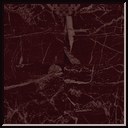
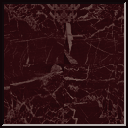
feat(visual): every panel is a cabinet, a decree is read off stone — and the probe that judges this had stopped looking
D8-1. One line puts the whole game in a cabinet: PanelContainer's theme stylebox is
the wood material, so every panel on every screen arrives at once. That is D0's
centralising paying off more than D0 did. The four dialogs (settings, credits, new
run, bug report) wear the same wood with a gold rim, because a thing on top of the
game says so with one gold line; a LOCKED character stays flat, since a cabinet you
cannot open is not a cabinet.

A DECREE IS READ OFF STONE. The divine rule band is jasper now, not a panel: it is
the one band in a fight read ONCE, on entering the room, and never again while the
fight runs — which is what a plaque is, and what separates it from the telegraph
under it that changes every turn. The arena's own instruments (columns, telegraph
rail, chips, toast) keep D6's look and stay quiet, because from D8-3 they stand over
a picture.

THE BORDER IS 8 AND NOT 16, BECAUSE OF THE ARENA. A stylebox's content margin must
clear its texture margin or the text sits on the carving; today's panels pad 12 and
8. A 16 px carving would have forced 20 px into every PanelContainer in the game, and
D6 spent a whole pass winning back 145 px of arena height. A material may not cost
layout. Measured: smoke-format 5/5 PASS at 134x190, smoke-crowd offscreen=no with the
arena at 894/353, tooltips 0 unexplained.

A SUB-CROP OF A SEAMLESS TILE IS NOT A SEAMLESS TILE. A nine-patch repeats its
[…]

diff --git a/scripts/SessionScreen.cs b/scripts/SessionScreen.cs
@@ -640,7 +640,12 @@ public partial class SessionScreen : Control
             && (wanted.Length == 0 || Enemies().Any(e =>
                 e.DefinitionId.value.Contains(wanted, StringComparison.OrdinalIgnoreCase)));
 
-        await WalkUntil(stop: Found, prefer: node => node.HasTag(MapNodeTags.Boss), budget: 9000);
+        // ⚠⚠ A BUDGET IS A MEASUREMENT OF A MAP, AND THE MAP WAS REBUILT UNDER IT. 9000 steps carried this
+        // probe to an Act V god when D6 measured it; after the map rework (S1-S15) the same 9000 stop in Act
+        // IV — the acts are longer now (Act IV alone lays out 36 rows, `--smoke-generators`) — and a walk that
+        // runs out prints `boss=NO ... error=none`, a sentence that reads like nothing is wrong. The eyes-on
+        // probe the whole visual arc is judged by had quietly stopped looking at the thing it is for.
+        await WalkUntil(stop: Found, prefer: node => node.HasTag(MapNodeTags.Boss), budget: 25000);
 
         // A NAMED boss may not be in this run at all: Act V fields THREE OF SIX gods, in an order the seed
         // picks, so asking for one god and walking one run is asking for a one-in-two chance. The crowd probe
@@ -651,7 +656,7 @@ public partial class SessionScreen : Control
             foreach (var seed in new[] { 5, 7, 1, 2, 3, 4, 6, 8, 9, 11 })
             {
                 GameHost.Instance.StartNewRun(seed, health: 9999);
-                await WalkUntil(stop: Found, prefer: node => node.HasTag(MapNodeTags.Boss), budget: 9000);
+                await WalkUntil(stop: Found, prefer: node => node.HasTag(MapNodeTags.Boss), budget: 25000);
                 if (Found())
                 {
                     GD.Print($"  '{wanted}' found on seed {seed}");
@@ -889,6 +894,8 @@ public partial class SessionScreen : Control
         Func<bool> stop, Func<RogueDeck.Run.Node, bool> prefer, int budget)
     {
         _walkEnded = "the budget ran out";
+        var enteredRoomAt = 0;
+        string? lastFight = null;
         var session = Session;
         var play = Play;
         var best = 0;
@@ -919,12 +926,34 @@ public partial class SessionScreen : Control
             if (step % 20 == 19)
                 await ToSignal(GetTree(), SceneTree.SignalName.ProcessFrame);
             best = Math.Max(best, Enemies().Count);
+            // Who was on the table last. A run that ends names the fight it ended in — without this, a defeat
+            // reports a room code and leaves the next reader to walk there again to find out who was standing
+            // in it.
+            if (play.CombatDriver?.Current is not null && Facing() is { Length: > 0 } facing && facing != "-")
+                lastFight = facing;
             if (session.Run.CurrentNodeId?.Value is { } here && here != lastRoom)
             {
                 lastRoom = here;
+                enteredRoomAt = step;
                 var node = session.Run.Map.Nodes.FirstOrDefault(n => n.Id.Value == here);
                 GD.Print($"  [{step,5}] act {session.Run.ActNumber} {here} "
                     + $"{(node is null ? "?" : MapView.Role(node))}");
+            }
+
+            // ⚠⚠ "THE BUDGET RAN OUT" IS NOT A DIAGNOSIS, IT IS A CLOCK. This probe answered twenty-two
+            // thousand questions inside ONE room of Act IV and then reported the budget, which reads like a
+            // walk that was merely too long and is in fact a walk that was going nowhere. A room that will
+            // not end is a different animal from a map that is big, and the only way to tell them apart
+            // afterwards is to name the state the answers were being poured into.
+            if (step % 500 == 499)
+                GD.Print($"  [{step,5}] heartbeat: act {session.Run.ActNumber} node {session.Run.CurrentNodeId?.Value ?? "-"} "
+                    + $"(entered at {enteredRoomAt}, last {lastRoom ?? "-"}) awaiting {Awaiting(session, play)}");
+
+            if (step - enteredRoomAt > StepsNoRoomTakes)
+            {
+                _walkEnded = $"stuck in {lastRoom} for {StepsNoRoomTakes} steps, awaiting {Awaiting(session, play)}";
+                GD.Print($"  [{step,5}] STUCK — {_walkEnded}");
+                break;
             }
 
             if (play.CombatDriver is { Current: not null } driver)
@@ -1017,10 +1046,40 @@ public partial class SessionScreen : Control
                 break;
             }
         }
+        // ⚠⚠ A CLOCK IS NOT A DIAGNOSIS, AND THE LOOP HAS FOUR WAYS OUT. Three of them used to leave the
+        // opening line in place — "the budget ran out" — which is why this probe spent four runs looking like
+        // a walk that was merely too slow. A run that ENDED is the loudest of them and said nothing at all.
+        if (session?.IsComplete == true)
+            _walkEnded = $"the run ended: {session.Run.Result}"
+                + $" (hero at {session.Run.Health.Current}/{session.Run.Health.Max}"
+                + $", in {lastRoom ?? "-"} against {lastFight ?? "nobody"})";
+        else if (session is null || play is null)
+            _walkEnded = "the session went away under the walk";
         if (session?.Error is not null || play?.Error is not null)
             _walkEnded = "an error was raised";
         return best;
     }
+
+    // No room in this game takes a thousand answers. A fight is bounded by the turn ceiling above it, and a
+    // screen between rooms is answered in one.
+    private const int StepsNoRoomTakes = 1000;
+
+    // The name of whatever is holding the walk, in the same words the walk's own branches are written in —
+    // so a stuck report says which branch was firing instead of leaving the next reader to re-derive it.
+    private static string Awaiting(InteractiveRunSession session, RunPlayback play) =>
+        play.CombatDriver switch
+        {
+            { PendingOptionChoice: not null } => "an option choice in a fight",
+            { PendingCardChoice: not null } => "a card choice in a fight",
+            { Current: { IsHeroTurn: true } } => "the hero's turn in a fight",
+            { Current: not null } => "the enemy's turn in a fight",
+            _ => session.IsAwaitingNodeChoice ? "a node choice"
+                : session.IsAwaitingEntities ? $"an entity pick ({session.PendingEntities?.Displays.Count} offered, "
+                    + $"{session.PendingEntities?.Count} to take)"
+                : session.IsAwaitingChoice ? $"a room choice ({session.PendingChoices.Count} options)"
+                : session.IsAwaitingInterlude ? "an interlude"
+                : "nothing at all",
+        };
 
     // Walk toward the nearest room of one KIND and screenshot it as the player would meet it. The rooms that
     // are not fights — shop, campfire, a door — are the ones nothing else in the smoke suite ever looks at.
@@ -2232,9 +2291,7 @@ public partial class SessionScreen : Control
             CustomMinimumSize = new Vector2(0, 0),
             TooltipText = Glossary.Explain(null, $"{name} {description}"),
         };
-        panel.AddThemeStyleboxOverride("panel", MoonvineTheme.Panel(
-            selected ? MoonvineTheme.BgControl : MoonvineTheme.BgPanel,
-            selected ? MoonvineTheme.AccentLight : new Color(MoonvineTheme.Accent, 0.3f)));
+        panel.AddThemeStyleboxOverride("panel", MoonvineTheme.WoodPanel(rim: selected));
 
         var column = new VBoxContainer { SizeFlagsHorizontal = SizeFlags.ExpandFill };
         column.AddThemeConstantOverride("separation", 2);
@@ -3998,8 +4055,10 @@ public partial class SessionScreen : Control
         // so the heading is hovered as whatever is beneath it — this panel — and a player who reaches for the
         // title of the area gets the same sentence rather than nothing at all.
         var panel = new PanelContainer { TooltipText = $"{title} — {rule}" };
-        panel.AddThemeStyleboxOverride("panel",
-            MoonvineTheme.Panel(MoonvineTheme.BgPanelStrong, MoonvineTheme.AccentLight, 8));
+        // ★ A DECREE IS READ OFF STONE. This is the one band in a fight that is read ONCE, on entering the
+        // room, and never changes while the fight runs — which is exactly what a plaque is for, and what
+        // separates it from the telegraph under it that changes every turn.
+        panel.AddThemeStyleboxOverride("panel", MoonvineTheme.JasperField(padH: 14, padV: 10));
         var pad = new MarginContainer();
         foreach (var side in new[] { "margin_left", "margin_right", "margin_top", "margin_bottom" })
             pad.AddThemeConstantOverride(side, 10);

diff --git a/tools/make-materials.py b/tools/make-materials.py
@@ -199,42 +199,59 @@ def dentils(draw, box, step, depth, light, dark):
     _ = depth
 
 
-def panel_wood(size=128, border=16):
-    """The everyday panel: a wood ground in a carved edge. Nine-patch margins = `border`."""
-    ground = tile("wood", size * 2).resize((size, size), Image.LANCZOS)
-    image = ground.convert("RGBA")
-    draw = ImageDraw.Draw(image)
-    edge = (0x0a, 0x06, 0x04, 255)
-    lift = (0x4a, 0x33, 0x1c, 255)
-    sink = (0x12, 0x0b, 0x06, 255)
-    draw.rectangle([0, 0, size - 1, size - 1], outline=edge, width=2)
-    bevel(draw, (2, 2, size - 3, size - 3), lift, sink, width=2)
-    bevel(draw, (border - 4, border - 4, size - border + 3, size - border + 3), sink, lift, width=1)
-    draw.rectangle([border - 2, border - 2, size - border + 1, size - border + 1],
-                   outline=(*GOLD_DARK, 110), width=1)
+def nine_patch_ground(kind, size, border, sigma=PANEL_SIGMA):
+    """A nine-patch ground whose CENTRE is seamless at centre size.
+
+    ⚠⚠ A SUB-CROP OF A SEAMLESS TILE IS NOT A SEAMLESS TILE. A nine-patch repeats its centre region, and the
+    centre of a 128 px piece with a 16 px border is 96 px — cut out of the middle of a seamless 512, whose
+    edges match each OTHER and not the edges of that crop. Every panel in the game would have carried a grid
+    of hairline discontinuities, visible exactly where a panel is big, which is where panels matter. So the
+    centre is GENERATED at centre size, where `seamless` makes it match itself, and the border ring is drawn
+    over a separate full-size pass of the same material.
+    """
+    image = tile(kind, size, sigma).convert("RGBA")
+    inner = size - 2 * border
+    image.paste(tile(kind, inner, sigma).convert("RGBA"), (border, border))
     return image
 
 
-def frame_lintel(size=256, border=48):
-    """The act header: black marble surround, dentil course, a gold bead, and a jasper field inside it."""
-    image = tile("marble", size * 2).resize((size, size), Image.LANCZOS).convert("RGBA")
-    field = tile("jasper", size, sigma=FIELD_SIGMA).resize((size, size), Image.LANCZOS)
-    inner = (border, border, size - border, size - border)
-    image.paste(field.crop(inner), (border, border))
+def panel_wood(size=96, border=8, rim=False):
+    """The everyday panel: a wood ground in a carved edge. Nine-patch margins = `border`.
+
+    ⚠ THE BORDER IS 8 AND NOT 16 BECAUSE OF THE ARENA. A stylebox's content margin has to clear its texture
+    margin or the text sits on the carving, and today's panels pad 12 across and 8 down (`Panel`). A 16 px
+    carving would have forced 20 px of padding into every PanelContainer in the game — and D6 spent a whole
+    pass winning back 145 px of arena height. A material may not cost layout.
+
+    `rim` adds the gold hairline an overlay wants: a dialog on top of the game says so with one gold line,
+    which is what the accent has meant since D0.
+    """
+    image = nine_patch_ground("wood", size, border)
     draw = ImageDraw.Draw(image)
-    edge = (0x05, 0x04, 0x05, 255)
-    lift = (0x93, 0x88, 0x8c, 200)
-    sink = (0x07, 0x05, 0x07, 255)
-    draw.rectangle([0, 0, size - 1, size - 1], outline=edge, width=2)
-    bevel(draw, (2, 2, size - 3, size - 3), lift, sink, width=2)
-    dentils(draw, (10, 10, size - 11, 22), 10, 12, (*GOLD_LIGHT, 150), (*GOLD_DARK, 190))
-    bevel(draw, (28, 28, size - 29, size - 29), (*GOLD, 220), (*GOLD_DARK, 220), width=2)
-    draw.rectangle([border - 1, border - 1, size - border, size - border], outline=(*GOLD_DARK, 200), width=1)
+    edge = (0x08, 0x05, 0x03, 255)
+    lift = (0x3c, 0x28, 0x14, 255)
+    sink = (0x0e, 0x08, 0x04, 255)
+    draw.rectangle([0, 0, size - 1, size - 1], outline=edge, width=1)
+    bevel(draw, (1, 1, size - 2, size - 2), lift, sink, width=1)
+    bevel(draw, (border - 3, border - 3, size - border + 2, size - border + 2), sink, lift, width=1)
+    draw.rectangle([border - 1, border - 1, size - border, size - border],
+                   outline=(*GOLD_DARK, 90), width=1)
+    if rim:
+        draw.rectangle([0, 0, size - 1, size - 1], outline=(*GOLD, 200), width=1)
     return image
 
 
 def frame_stone(size=128, border=14):
-    """A marble edge around nothing: the centre is transparent, so a plate keeps whatever ground it had."""
+    """A marble edge around nothing: the centre is transparent, so a plate keeps whatever ground it had.
+
+    ⚠ THERE IS NO PICTURE OF A LINTEL HERE, AND THAT IS DELIBERATE. The first pass drew one — surround,
+    tooth course, bead and field, all in a single 256 px nine-patch — and it was the best-looking thing on
+    the contact sheet. It is still wrong: a nine-patch REPEATS its edge strips, so the tooth course only
+    survives at widths that happen to be whole multiples of its step, and it smears at every other width.
+    The portal in the photographs is not one carved slab either; it is a surround, a field and a course laid
+    on top of each other. So the lintel is ASSEMBLED at runtime out of frame-stone, field-jasper and
+    moulding-gold, and no ornament is ever stretched.
+    """
     image = tile("marble", size * 2).resize((size, size), Image.LANCZOS).convert("RGBA")
     draw = ImageDraw.Draw(image)
     draw.rectangle([0, 0, size - 1, size - 1], outline=(0x05, 0x04, 0x05, 255), width=2)
@@ -247,7 +264,7 @@ def frame_stone(size=128, border=14):
 
 def field_jasper(size=128, border=10):
     """A small plaque: jasper with a dark stone lip, for anything a word is written on."""
-    image = tile("jasper", size * 2, sigma=FIELD_SIGMA).resize((size, size), Image.LANCZOS).convert("RGBA")
+    image = nine_patch_ground("jasper", size, border, sigma=FIELD_SIGMA)
     draw = ImageDraw.Draw(image)
     draw.rectangle([0, 0, size - 1, size - 1], outline=(0x10, 0x06, 0x08, 255), width=2)
     bevel(draw, (2, 2, size - 3, size - 3), (0x12, 0x0a, 0x0c, 255), (0x6a, 0x5a, 0x52, 120), width=2)
@@ -295,7 +312,7 @@ PIECES = {
     "marble.png": lambda: tile("marble"),
     "jasper.png": lambda: tile("jasper", sigma=FIELD_SIGMA),
     "panel-wood.png": panel_wood,
-    "frame-lintel.png": frame_lintel,
+    "panel-wood-rim.png": lambda: panel_wood(rim=True),
     "frame-stone.png": frame_stone,
     "field-jasper.png": field_jasper,
     "moulding-gold.png": moulding_gold,

diff --git a/scripts/MoonvineTheme.cs b/scripts/MoonvineTheme.cs
@@ -1,3 +1,4 @@
+using System.Collections.Generic;
 using Godot;
 
 namespace BnbGodot;
@@ -167,6 +168,66 @@ public static class MoonvineTheme
         ContentMarginBottom = 8,
     };
 
+    // ── the materials (D8) ───────────────────────────────────────────────────────
+    // A surface has a MATERIAL now, not a fill. Four of them, chosen by the ROLE of a surface and never by
+    // taste, the same discipline as the six-step ramp: WOOD is the cabinet the game is kept in (every panel
+    // and every dialog), MARBLE is a frame, JASPER is a field with writing on it, and GOLD stays a COLOUR —
+    // if gold ever becomes a surface, nothing on the screen is an accent any more.
+    //
+    // ⚠ A MATERIAL IS FELT, NOT SEEN. The tiles are generated at a fixed contrast (sigma 7 of 255 for a
+    // panel, 14 for a small plaque) by `tools/make-materials.py`, because a surface carrying text may not
+    // compete with it. The file is a placeholder like every picture in this game: save a painted one over it.
+    //
+    // ⚠ A MISSING MATERIAL IS A NORMAL STATE. `Surface` falls back to the flat panel it replaced, so a build
+    // without the files looks like D0 and never like an error.
+    private static readonly Dictionary<string, Texture2D?> Materials = new();
+
+    public static Texture2D? Material(string name)
+    {
+        if (!Materials.TryGetValue(name, out var texture))
+            Materials[name] = texture = ResourceLoader.Exists($"res://assets/materials/{name}.png")
+                ? GD.Load<Texture2D>($"res://assets/materials/{name}.png")
+                : null;
+        return texture;
+    }
+
+    // A nine-patch surface. `texture` is how wide the carved edge is in the FILE; `padH`/`padV` are what the
+    // content inside is held off by, and they must clear the carving or the text sits on it.
+    public static StyleBox Surface(string name, int texture, int padH, int padV, Color? fallback = null)
+    {
+        if (Material(name) is not { } picture)
+            return Panel(fallback);
+        var box = new StyleBoxTexture
+        {
+            Texture = picture,
+            // ⚠ TILE, NOT STRETCH. A stretched grain smears into stripes on a tall panel; the generator makes
+            // the centre of each piece seamless AT CENTRE SIZE so that tiling it has nothing to show.
+            AxisStretchHorizontal = StyleBoxTexture.AxisStretchMode.Tile,
+            AxisStretchVertical = StyleBoxTexture.AxisStretchMode.Tile,
+            TextureMarginLeft = texture,
+            TextureMarginRight = texture,
+            TextureMarginTop = texture,
+            TextureMarginBottom = texture,
+            ContentMarginLeft = padH,
+            ContentMarginRight = padH,
+            ContentMarginTop = padV,
+            ContentMarginBottom = padV,
+        };
+        return box;
+    }
+
+    // The everyday panel, in the padding `Panel` has always used — a material may not cost layout.
+    public static StyleBox WoodPanel(bool rim = false) =>
+        Surface(rim ? "panel-wood-rim" : "panel-wood", 8, 12, 8, rim ? BgPanelStrong : BgPanel);
+
+    // A marble edge around whatever the caller already had: the centre of the picture is transparent.
+    public static StyleBox StoneFrame(int padH = 16, int padV = 12) =>
+        Surface("frame-stone", 14, padH, padV, BgRaised);
+
+    // A plaque with a word on it: oxblood stone with a dark lip.
+    public static StyleBox JasperField(int padH = 12, int padV = 8) =>
+        Surface("field-jasper", 10, padH, padV, CardGround);
+
     private static Theme? _theme;
 
     public static Theme Build()
@@ -178,8 +239,11 @@ public static class MoonvineTheme
         if (Font is { } font)
             theme.DefaultFont = font;
 
-        theme.SetStylebox("panel", "PanelContainer", Panel());
-        theme.SetStylebox("panel", "Panel", Panel(BgPanelStrong));
+        // ★ ONE LINE PUTS THE WHOLE GAME IN A CABINET. Every PanelContainer in every screen reads this, which
+        // is why D0's work of centralising was worth more than D0 itself: the material arrives everywhere at
+        // once, and the places that should NOT wear it are the ones that already override their own stylebox.
+        theme.SetStylebox("panel", "PanelContainer", WoodPanel());
+        theme.SetStylebox("panel", "Panel", WoodPanel());
 
         // A button is the one thing on screen that is unambiguously yours to press, so it is the one thing
         // that wears gold at rest.

diff --git a/scripts/Boot.cs b/scripts/Boot.cs
@@ -599,9 +599,9 @@ public partial class Boot : Control
         // "Armed with forms, stamps, and a fireproof sense of procedure" comes out six lines tall and pushes the
         // roster off the bottom of the screen.
         var panel = new PanelContainer { CustomMinimumSize = new Vector2(330, 140) };
-        panel.AddThemeStyleboxOverride("panel", MoonvineTheme.Panel(
-            selected ? MoonvineTheme.BgControl : MoonvineTheme.BgPanel,
-            selected ? MoonvineTheme.AccentLight : unlocked ? new Color(MoonvineTheme.Accent, 0.3f) : new Color(MoonvineTheme.TextMuted, 0.2f)));
+        panel.AddThemeStyleboxOverride("panel", unlocked
+            ? MoonvineTheme.WoodPanel(rim: selected)
+            : MoonvineTheme.Panel(MoonvineTheme.BgPanelStrong, new Color(MoonvineTheme.TextMuted, 0.2f)));
 
         // WHO YOU ARE ABOUT TO BE, as a body and not only as a name. The roster is the first choice the game
         // asks of anybody, and it was the last one still made entirely out of words.

diff --git a/scripts/CreditsPanel.cs b/scripts/CreditsPanel.cs
@@ -72,7 +72,7 @@ public partial class CreditsPanel : PanelContainer
         // At 460 the list showed three of ten entries and looked like an accident; the point of a credits
         // screen is that the credits are ON it, not one scroll-flick away.
         CustomMinimumSize = new Vector2(620, 600);
-        AddThemeStyleboxOverride("panel", MoonvineTheme.Panel(MoonvineTheme.BgPanelStrong, MoonvineTheme.Accent));
+        AddThemeStyleboxOverride("panel", MoonvineTheme.WoodPanel(rim: true));
 
         var margin = new MarginContainer();
         foreach (var side in new[] { "margin_left", "margin_right", "margin_top", "margin_bottom" })

diff --git a/scripts/BugReportPanel.cs b/scripts/BugReportPanel.cs
@@ -28,7 +28,7 @@ public partial class BugReportPanel : PanelContainer
     public override void _Ready()
     {
         CustomMinimumSize = new Vector2(620, 0);
-        AddThemeStyleboxOverride("panel", MoonvineTheme.Panel(MoonvineTheme.BgPanelStrong, MoonvineTheme.Accent));
+        AddThemeStyleboxOverride("panel", MoonvineTheme.WoodPanel(rim: true));
 
         var margin = new MarginContainer();
         foreach (var side in new[] { "margin_left", "margin_right", "margin_top", "margin_bottom" })

diff --git a/scripts/SettingsPanel.cs b/scripts/SettingsPanel.cs
@@ -31,7 +31,7 @@ public partial class SettingsPanel : PanelContainer
     public override void _Ready()
     {
         CustomMinimumSize = new Vector2(460, 0);
-        AddThemeStyleboxOverride("panel", MoonvineTheme.Panel(MoonvineTheme.BgPanelStrong, MoonvineTheme.Accent));
+        AddThemeStyleboxOverride("panel", MoonvineTheme.WoodPanel(rim: true));
 
         var margin = new MarginContainer();
         foreach (var side in new[] { "margin_left", "margin_right", "margin_top", "margin_bottom" })

diff --git a/scripts/NewRunPanel.cs b/scripts/NewRunPanel.cs
@@ -30,7 +30,7 @@ public partial class NewRunPanel : PanelContainer
     public override void _Ready()
     {
         CustomMinimumSize = new Vector2(620, 0);
-        AddThemeStyleboxOverride("panel", MoonvineTheme.Panel(MoonvineTheme.BgPanelStrong, MoonvineTheme.Accent));
+        AddThemeStyleboxOverride("panel", MoonvineTheme.WoodPanel(rim: true));
 
         var margin = new MarginContainer();
         foreach (var side in new[] { "margin_left", "margin_right", "margin_top", "margin_bottom" })
